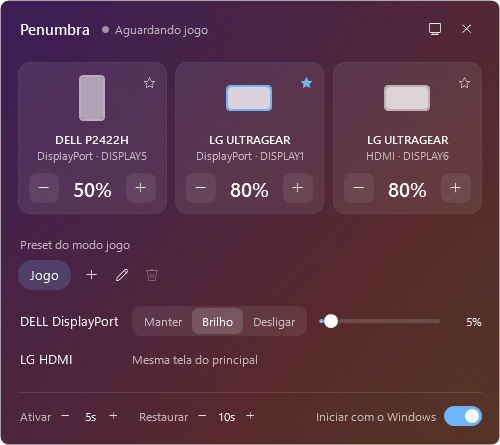
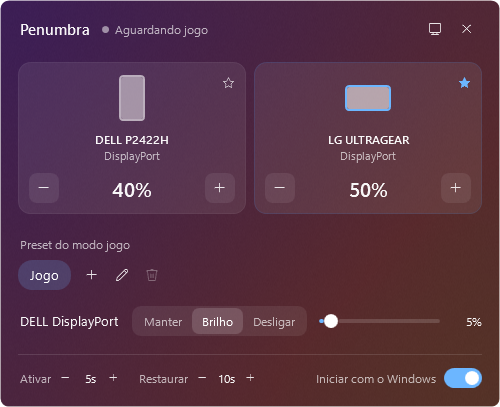
Prepara a versao 0.1.1

diff --git a/site/en/index.html b/site/en/index.html
@@ -46,7 +46,7 @@
     "license": "https://opensource.org/licenses/MIT",
     "offers": { "@type": "Offer", "price": "0", "priceCurrency": "USD" },
     "author": { "@type": "Person", "name": "ferbdev", "url": "https://github.com/ferbdev" },
-    "softwareVersion": "0.1.0",
+    "softwareVersion": "0.1.1",
     "processorRequirements": "x64",
     "sameAs": ["https://github.com/ferbdev/penumbra"]
   }
@@ -89,7 +89,7 @@
       </div>
 
       <div class="showcase">
-        <img src="../assets/widget.png" alt="Penumbra widget with a brightness card for each monitor and the game mode preset" width="500" height="445" fetchpriority="high">
+        <img src="../assets/widget.png" alt="Penumbra widget with a brightness card for each monitor and the game mode preset" width="500" height="407" fetchpriority="high">
       </div>
     </section>
 

diff --git a/site/index.html b/site/index.html
@@ -46,7 +46,7 @@
     "license": "https://opensource.org/licenses/MIT",
     "offers": { "@type": "Offer", "price": "0", "priceCurrency": "BRL" },
     "author": { "@type": "Person", "name": "ferbdev", "url": "https://github.com/ferbdev" },
-    "softwareVersion": "0.1.0",
+    "softwareVersion": "0.1.1",
     "processorRequirements": "x64",
     "sameAs": ["https://github.com/ferbdev/penumbra"]
   }
@@ -89,7 +89,7 @@
       </div>
 
       <div class="showcase">
-        <img src="assets/widget.png" alt="Widget Penumbra com um cartão de brilho para cada monitor e o preset do modo jogo" width="500" height="445" fetchpriority="high">
+        <img src="assets/widget.png" alt="Widget Penumbra com um cartão de brilho para cada monitor e o preset do modo jogo" width="500" height="407" fetchpriority="high">
       </div>
     </section>
 
